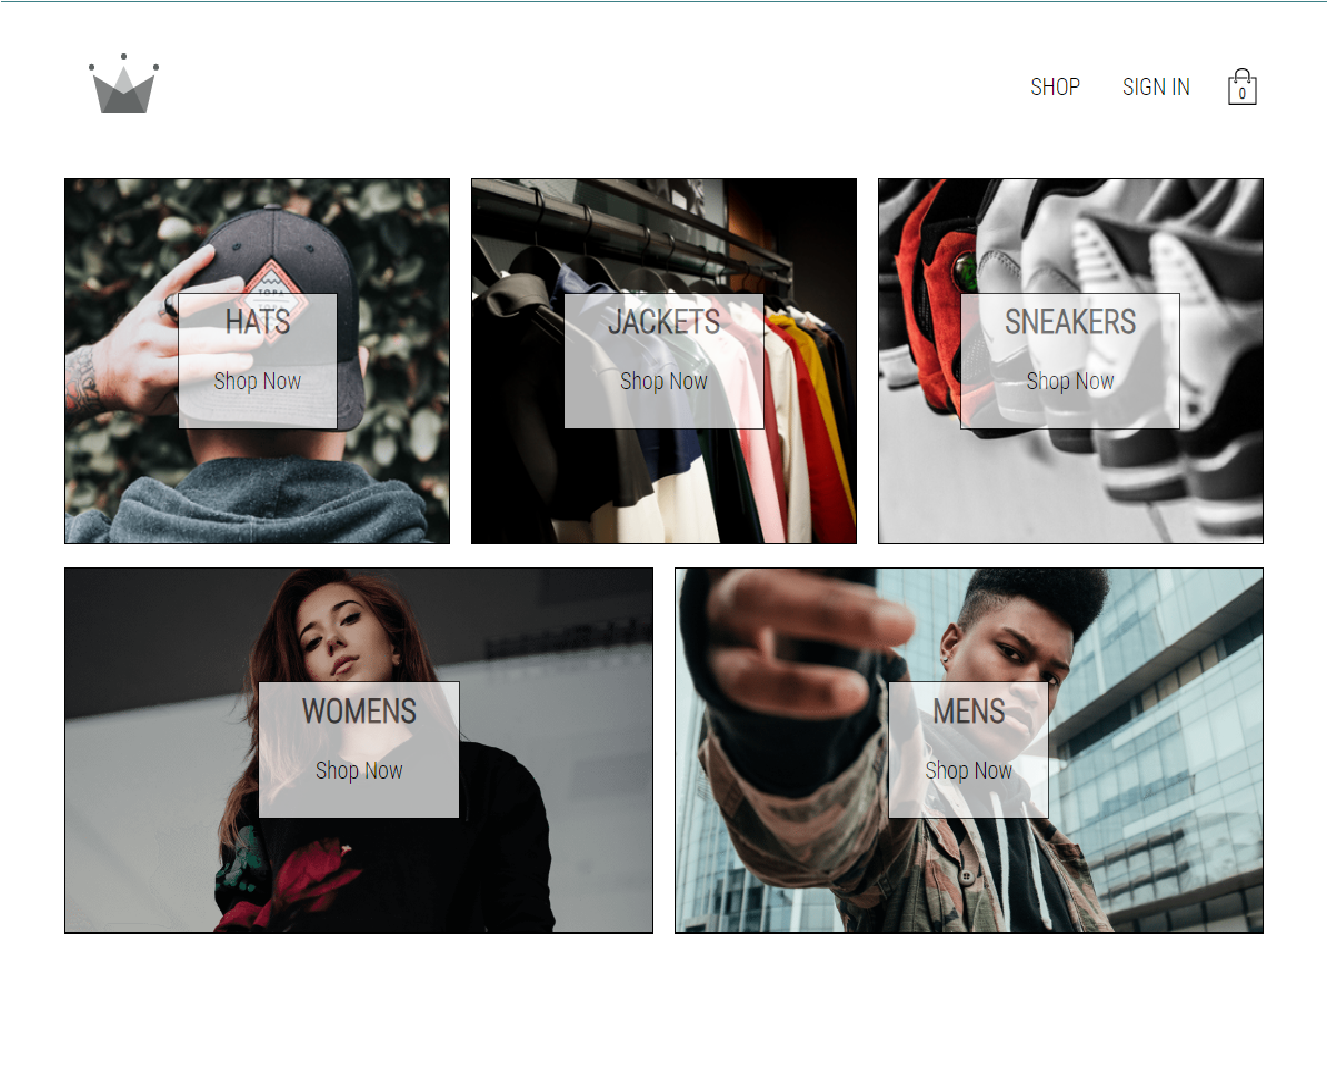
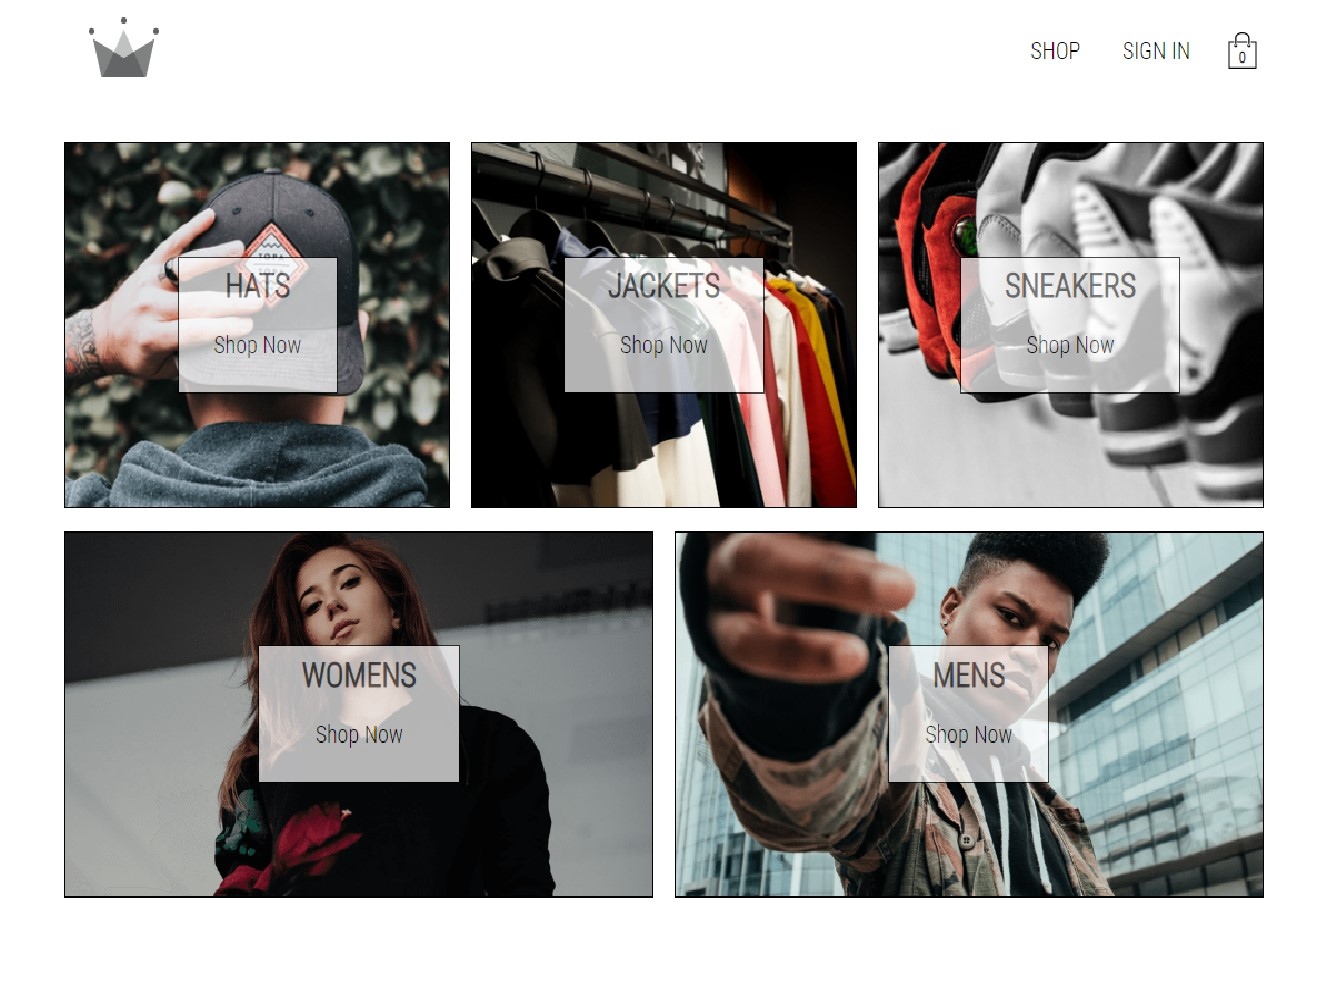
commit 3/26/23

diff --git a/src/components/portfolio/portfolio-data.js b/src/components/portfolio/portfolio-data.js
@@ -9,14 +9,16 @@ export const portfolioData = [
 	{
 		id: 1,
 		image: IMG1,
-		title: 'Simple Calculator - React',
+		title: 'Calculator App',
+		description: 'Simple Calculator App using React',
 		github: 'https://github.com/Mac-Jones/react-calculator',
 		demo: 'https://simple-calculator-reactjs-mj.netlify.app/',
 	},
 	{
 		id: 2,
 		image: IMG2,
-		title: 'Crown Clothing - React',
+		title: 'Crown Clothing',
+		description: 'E-Commerce App using React, TypeScript, Redux, etc',
 		github: 'https://github.com',
 		demo: 'https://crown-clothing-reactjs.netlify.app/',
 	},
@@ -24,27 +26,31 @@ export const portfolioData = [
 		id: 3,
 		image: IMG3,
 		title: 'Recipe App',
+		description: 'Food Website Recipe using Javascript',
 		github: 'https://github.com/Mac-Jones/forkify-app',
 		demo: 'https://recipe-app-macjones.netlify.app',
 	},
 	{
 		id: 4,
 		image: IMG4,
-		title: 'Portfolio Website',
-		github: 'https://github.com/Mac-Jones/react-portfolio-website-mj',
-		demo: 'https://mac-jones-soriano.netlify.app',
+		title: 'Pig Game',
+		description: 'Pig Game using Javascript, HTML, and CSS',
+		github: 'https://github.com/Mac-Jones/pig-game-javascript',
+		demo: 'https://pig-game-mac-jones.netlify.app/',
 	},
 	{
 		id: 5,
 		image: IMG5,
-		title: 'Future Projects',
+		title: 'Breakout',
+		description: 'Javascript Arcade Game',
 		github: 'https://github.com',
 		demo: 'https://dribbble.com/shots/16541289-Orion-UI-kit-Charts-templates-infographics-in-Figma',
 	},
 	{
 		id: 6,
 		image: IMG6,
-		title: 'HAHAAHAHAH',
+		title: 'Tic Tac Toe',
+		description: 'Javascript Game',
 		github: 'https://github.com',
 		demo: 'https://dribbble.com/shots/15887665-Orion-UI-kit-Charts-templates-infographics-in-Figma',
 	},

diff --git a/src/components/portfolio/portfolio.component.jsx b/src/components/portfolio/portfolio.component.jsx
@@ -10,13 +10,14 @@ const Portfolio = () => {
 
 			<div className='container portfolio__container'>
 				{portfolioData.map((item) => {
-					const { id, image, title, github, demo } = item;
+					const { id, image, title, description, github, demo } = item;
 					return (
 						<article key={id} className='portfolio__item'>
 							<div className='portfolio__item-image'>
 								<img src={image} alt={title} />
 							</div>
 							<h3>{title}</h3>
+							<h4>{description}</h4>
 							<div className='portfolio__item-cta'>
 								<a href={github} className='btn' target='_blank'>
 									Github

diff --git a/src/components/portfolio/portfolio.styles.scss b/src/components/portfolio/portfolio.styles.scss
@@ -4,7 +4,7 @@
 	&__container {
 		display: grid;
 		grid-template-columns: repeat(3, 1fr);
-		gap: 2.5rem;
+		// gap: 2.5rem;
 	}
 
 	&__item {
@@ -13,6 +13,7 @@
 		border-radius: 2rem;
 		border: 1px solid $color-bg; // transparent
 		transition: $transition;
+		text-align: center;
 
 		&-image {
 			border-radius: 1.5rem;
@@ -20,11 +21,17 @@
 		}
 
 		& h3 {
-			margin: 1.2rem 0 2rem;
+			margin-top: 1.2rem;
+		}
+
+		& h4 {
+			margin-bottom: 1rem;
+			color: $color-light;
 		}
 
 		&-cta {
 			display: flex;
+			justify-content: center;
 			gap: 1rem;
 			margin-bottom: 1rem;
 		}
